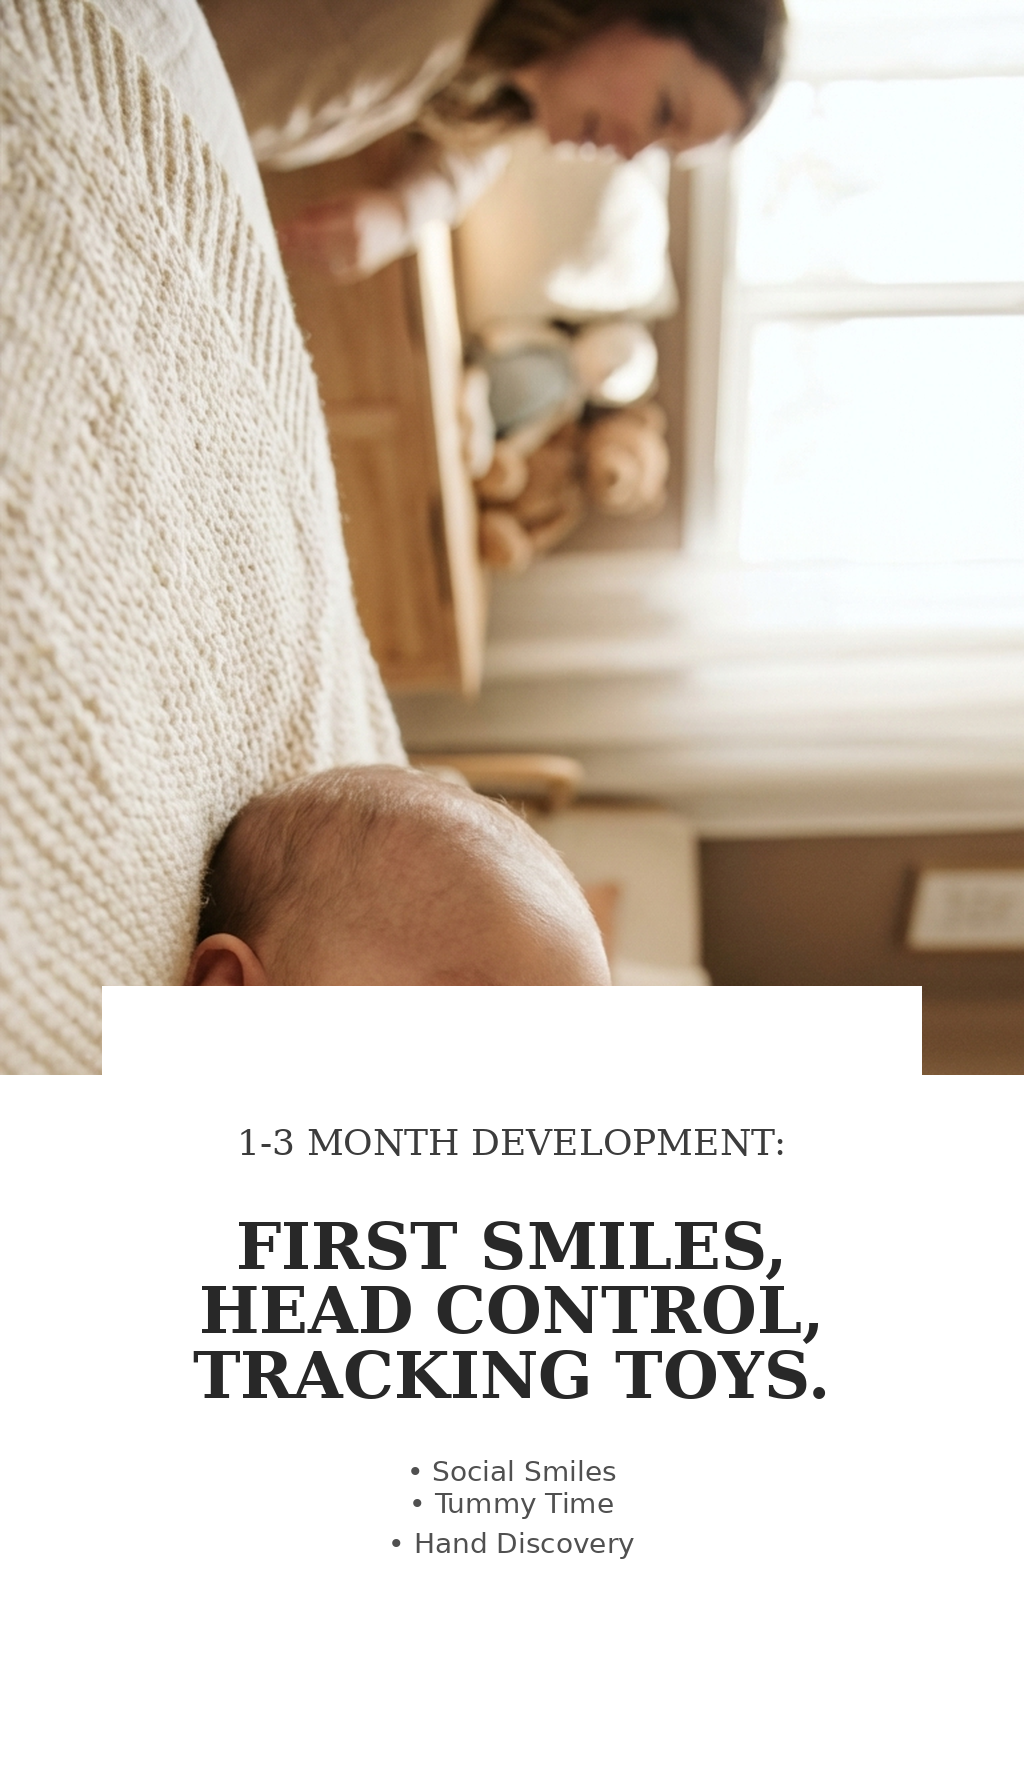
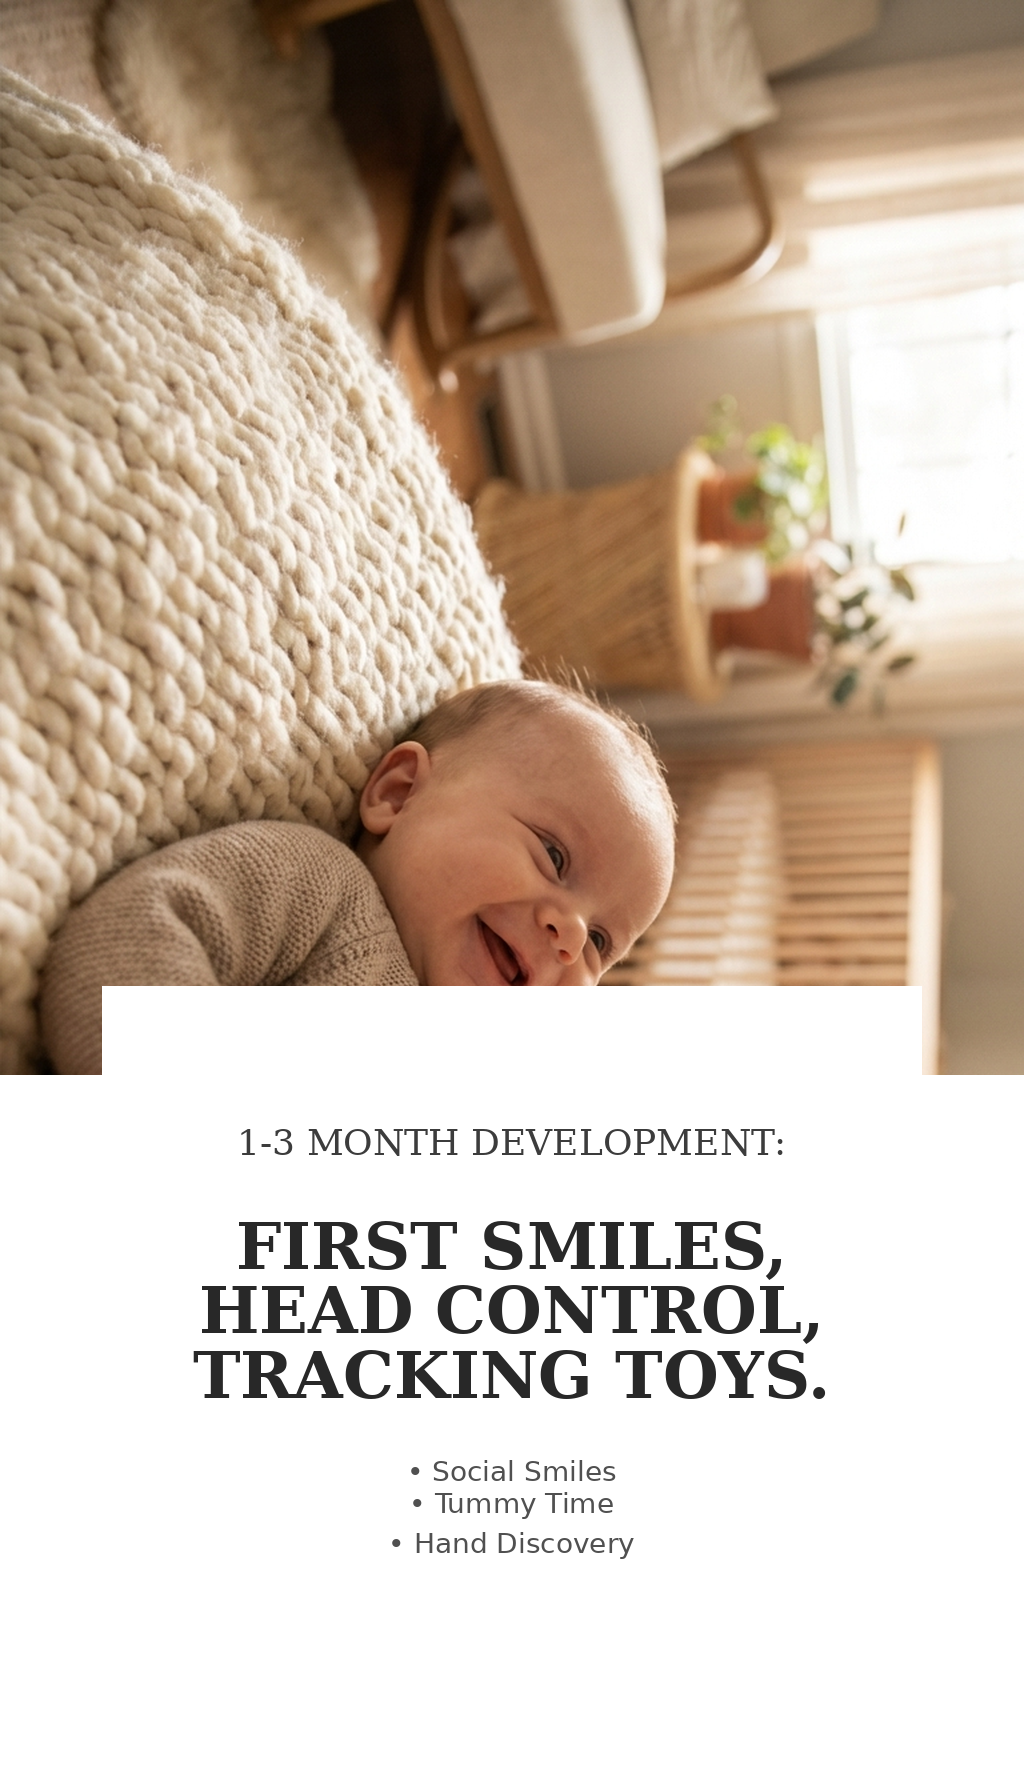
Fix image rotation and orientation in Pinterest pin generator

diff --git a/scripts/generate_pin.py b/scripts/generate_pin.py
@@ -55,8 +55,19 @@ def main():
     img = Image.new('RGB', (W, H), WHITE)
     draw = ImageDraw.Draw(img)
     
+    # Load background
     bg = Image.open(temp_bg).convert('RGB')
+    
+    # Check EXIF orientation and fix it (essential for AI generated images)
+    try:
+        from PIL import ImageOps
+        bg = ImageOps.exif_transpose(bg)
+    except:
+        pass
+
     bg_w, bg_h = bg.size
+    
+    # If the image is landscape, rotate it to portrait (90 deg clockwise)
     if bg_w > bg_h:
         bg = bg.rotate(-90, expand=True)
         bg_w, bg_h = bg.size
